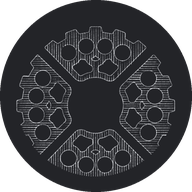
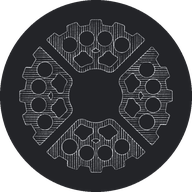
v1.0.0: отклик всех кнопок, иконка по центру
- Любая кнопка «утапливается» при нажатии (класс по pointerdown —
  работает и с пером)
- Иконка: центр логотипа определён по самому рисунку, нижний сектор
  больше не обрезан, рисунок ровно по центру
- Версия 1.0.0

Changed region(s): [[0.0625, 0.0938, 0.9375, 0.9375]]

diff --git a/src/ui.ts b/src/ui.ts
@@ -232,6 +232,30 @@ export function installNumpad() {
   document.addEventListener("input", (e) => e.target === target && preview());
 }
 
+// ---------- отклик кнопок ----------
+
+/**
+ * Любая кнопка при нажатии «утапливается». Класс ставится по pointerdown: на пере и пальце
+ * :active срабатывает не всегда (часть кнопок отменяет действие по умолчанию, чтобы не терять фокус).
+ * Подписи размеров позиционируются через transform — их не трогаем.
+ */
+export function installPressAnimation() {
+  document.addEventListener(
+    "pointerdown",
+    (e) => {
+      const b = (e.target as Element | null)?.closest?.("button");
+      if (!b || (b as HTMLButtonElement).disabled || b.style.transform) return;
+      b.classList.remove("pressed");
+      void b.offsetWidth;
+      b.classList.add("pressed");
+      const up = () => setTimeout(() => b.classList.remove("pressed"), 90);
+      window.addEventListener("pointerup", up, { once: true });
+      window.addEventListener("pointercancel", up, { once: true });
+    },
+    true,
+  );
+}
+
 // ---------- диалоги ----------
 
 function modal(build: (box: HTMLDivElement, close: () => void) => void) {

diff --git a/src/main.ts b/src/main.ts
@@ -25,7 +25,7 @@ import { Viewport, type Dim, type Pick, type PickMode, type ProfileRef, type Sub
 import * as K from "./kernel";
 import type { Primitive } from "./kernel";
 import * as S from "./storage";
-import { evalExpr, haptic, installNumpad, isTouchLike, uiConfirm, uiPrompt } from "./ui";
+import { evalExpr, haptic, installNumpad, installPressAnimation, isTouchLike, uiConfirm, uiPrompt } from "./ui";
 import { Capacitor } from "@capacitor/core";
 import { Directory, Filesystem } from "@capacitor/filesystem";
 import { Share } from "@capacitor/share";
@@ -3533,6 +3533,7 @@ applyTheme((getPref("theme") as Theme | null) ?? (prefersDark ? "dark" : "light"
 setLeftHand(getPref("leftHand") === "1");
 setPanelCollapsed(getPref("panel") === "0");
 installNumpad();
+installPressAnimation();
 renderToolbar();
 applySnap(getPref("snap") !== "0");
 if (getPref("projection") === "ortho") view.setProjection("ortho");

diff --git a/src/style.css b/src/style.css
@@ -649,3 +649,8 @@ button.primary.danger { background: var(--danger); }
 .onboard-card .dots span.on { background: var(--accent); box-shadow: none; }
 /* Во время эскиза шкала истории закрывала бы холст */
 #app.sketching #timeline { display: none !important; }
+
+/* Отклик нажатия для всех кнопок: лёгкое «утапливание» */
+button { transition: transform .12s ease, box-shadow .12s ease, filter .12s ease; }
+button:not(:disabled):active,
+button.pressed:not(:disabled) { transform: scale(0.94); box-shadow: var(--pressed-sm); filter: brightness(0.95); }

diff --git a/README.md b/README.md
@@ -159,6 +159,12 @@ npm run apk
   вернуться к нему, отменённые шаги можно вернуть, пока не сделано новое действие.
   Это история отмены, а не параметрическое дерево: изменить старый шаг и пересчитать последующие нельзя
 
+## Версия 1.0.0
+
+Первая завершённая версия. APK — в разделе Releases репозитория (тег `v1.0.0`).
+Последние правки: отклик нажатия у всех кнопок, иконка выровнена по центру.
+Дальнейшие доработки ведутся в отдельной ветке.
+
 ## Определённый эскиз (v0.14.0)
 
 - Фигуры, у которых не осталось степеней свободы (всё задано связями и размерами), рисуются бордовым —
